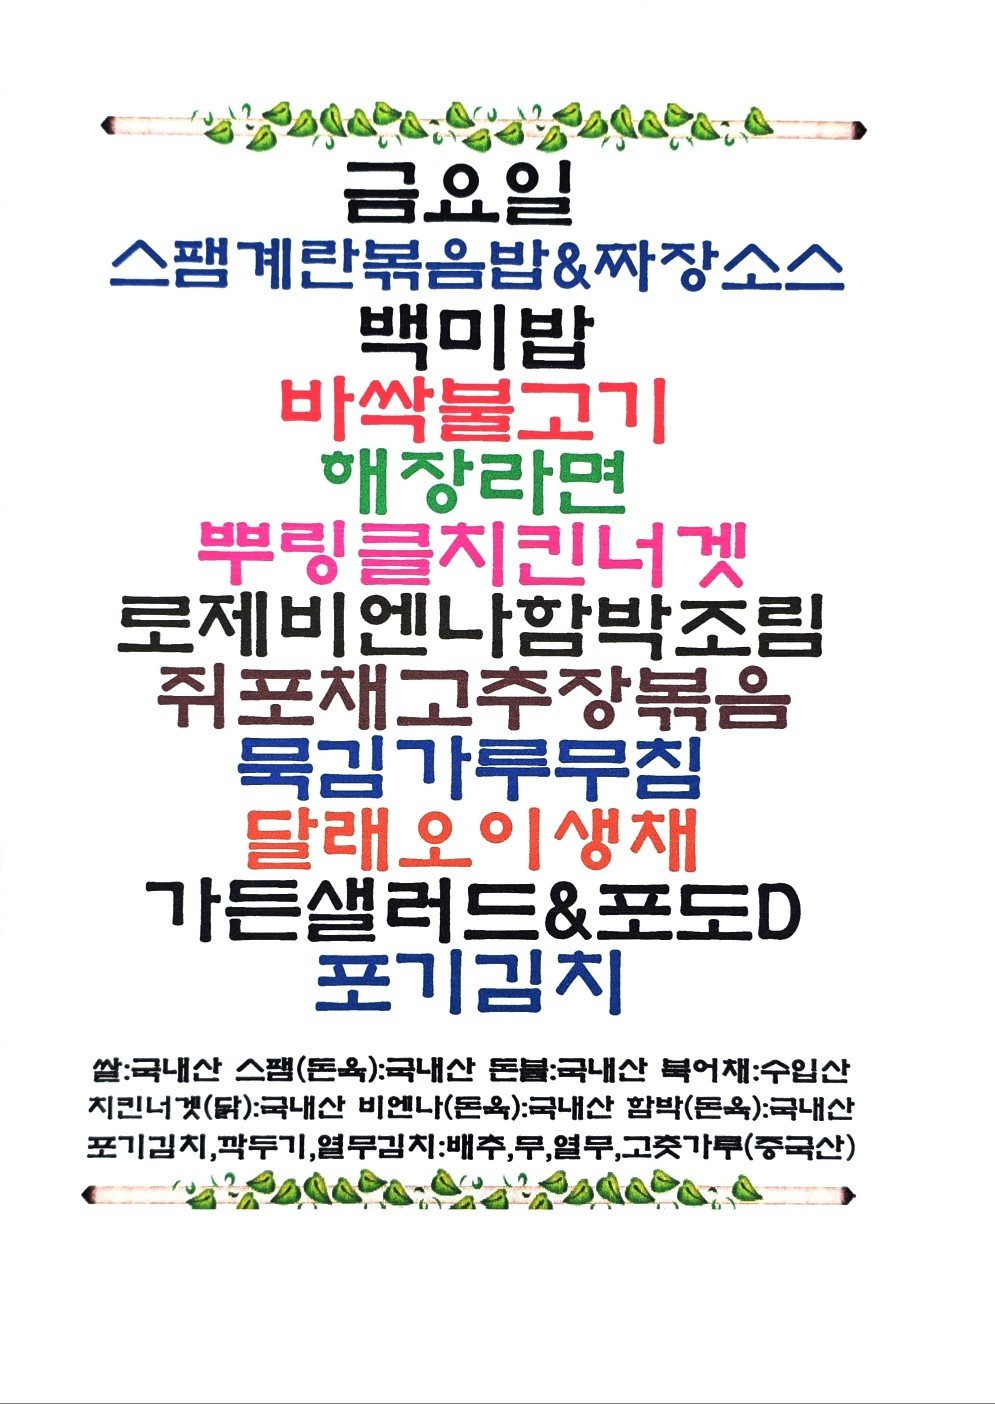
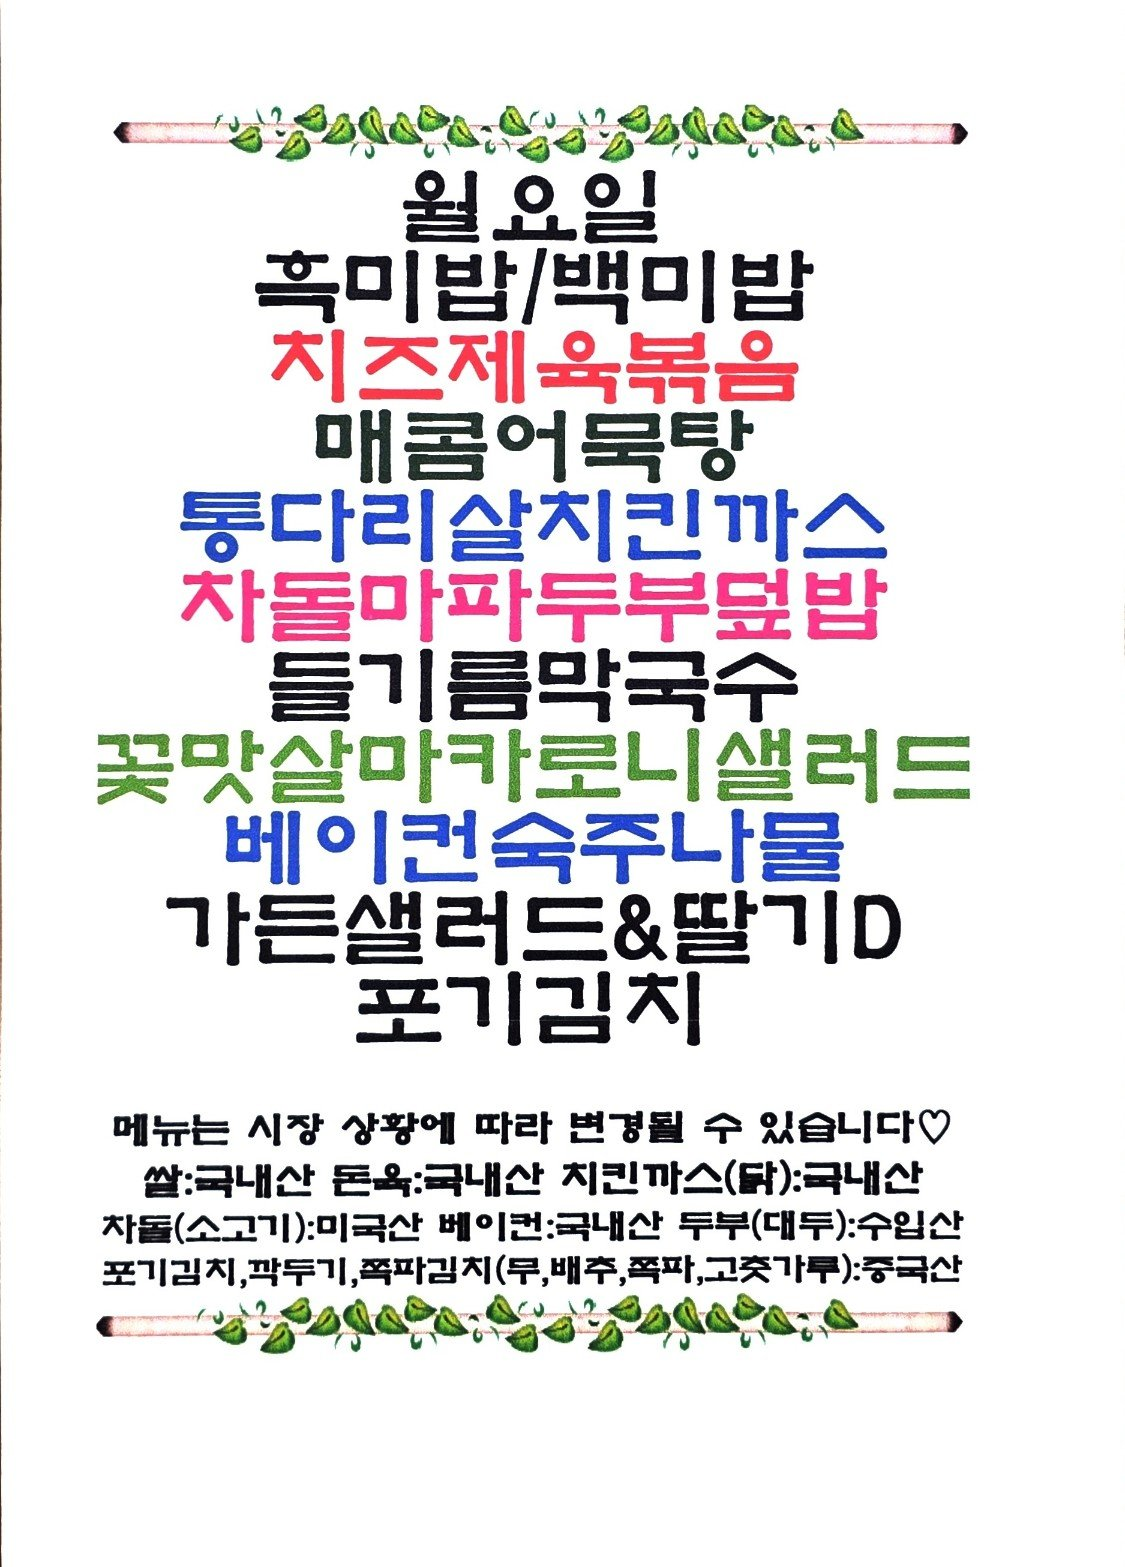
Update menu board assets

Changed region(s): [[0.0623, 0.0613, 0.8724, 0.8882], [0.997, 0.3981, 1.0, 0.4288]]

diff --git a/menu-today/index.html b/menu-today/index.html
@@ -209,7 +209,7 @@
 
     <section class="meta-bar">
       <div class="meta-card"><div class="meta-label">기준 날짜</div><div class="meta-value">2026년 10월 19일 월요일</div></div>
-      <div class="meta-card"><div class="meta-label">최종 가져온 시간</div><div class="meta-value">2026-10-19 10:03:37</div></div>
+      <div class="meta-card"><div class="meta-label">최종 가져온 시간</div><div class="meta-value">2026-10-19 10:13:21</div></div>
       <div class="meta-card"><div class="meta-label">확인 완료</div><div class="meta-value">9개 식당</div></div>
       <div class="meta-card"><div class="meta-label">준비중</div><div class="meta-value">3개 채널</div></div>
     </section>
@@ -225,7 +225,7 @@
             <div class="sub">현대테라타워 가산DK</div>
           </div>
         </div>
-        <div class="menu-inline-image"><img src="./images/imeal.png" alt="아이밀 식단 이미지"></div><ul><li>청양콩나물국</li><li>제육볶음</li><li>생선까스 / 타르타르S</li><li>궁중떡볶이</li><li>까리고추멸치볶음</li><li>실곤약무침</li><li>상추겉절이</li><li>가든샐러드</li><li>포기김치</li><li>백미밥 / 흑미밥</li><li>주 떠부</li><li>타사을료</li><li>으 으 L</li></ul>
+        <div class="menu-inline-image"><img src="./images/imeal.png" alt="아이밀 식단 이미지"></div><ul><li>청양콩나물국</li><li>제육볶음</li><li>생선까스 / 타르타르</li><li>궁중떡볶이</li><li>까리고추멸치볶음</li><li>실곤약무침</li><li>상추겉절이</li><li>가든샐러드</li><li>포기김치</li><li>백미밥 / 흑미밥</li><li>주 떠부</li><li>타사을료</li><li>으 으 L</li></ul>
       </article>
 
       <article class="restaurant-card">
@@ -305,7 +305,7 @@
             <div class="sub">스타밸리</div>
           </div>
         </div>
-        <div class="menu-inline-image"><img src="./images/starvalley-food4u-post.png" alt="스타밸리푸드포유 식단 이미지"></div><div class="info-note">오늘 메뉴 미수집 상태입니다.</div>
+        <div class="menu-inline-image"><img src="./images/starvalley-food4u-post.png" alt="스타밸리푸드포유 식단 이미지"></div><ul><li>월요일</li><li>혹미밥 / 백미밥</li><li>매콜어묵탕</li><li>통다리살치킨까스</li><li>자돌마파두부덮밥</li><li>들기름막국수</li><li>꽃맛살마카로니샐러드</li><li>베이컨숙주나물</li><li>가든샐러드 &amp; 딸기D</li><li>포기김치</li><li>으미밥 / 백미밥</li></ul>
       </article>
     </section>
 

diff --git a/guro-menu/index.html b/guro-menu/index.html
@@ -32,7 +32,7 @@
   </header>
   <section class="meta">
     <div><small>기준 날짜</small><strong>2026년 10월 19일 월요일</strong></div>
-    <div><small>최종 갱신</small><strong>2026-10-19 10:03:52</strong></div>
+    <div><small>최종 갱신</small><strong>2026-10-19 10:13:36</strong></div>
     <div><small>등록 식당</small><strong>5개</strong></div>
   </section>
   <div class="notice">공개 카카오 채널의 메뉴 이미지를 자동 수집하고 OCR로 정리합니다. 텍스트에 오타가 있을 수 있으니 식단 이미지를 함께 확인해 주세요.</div>
